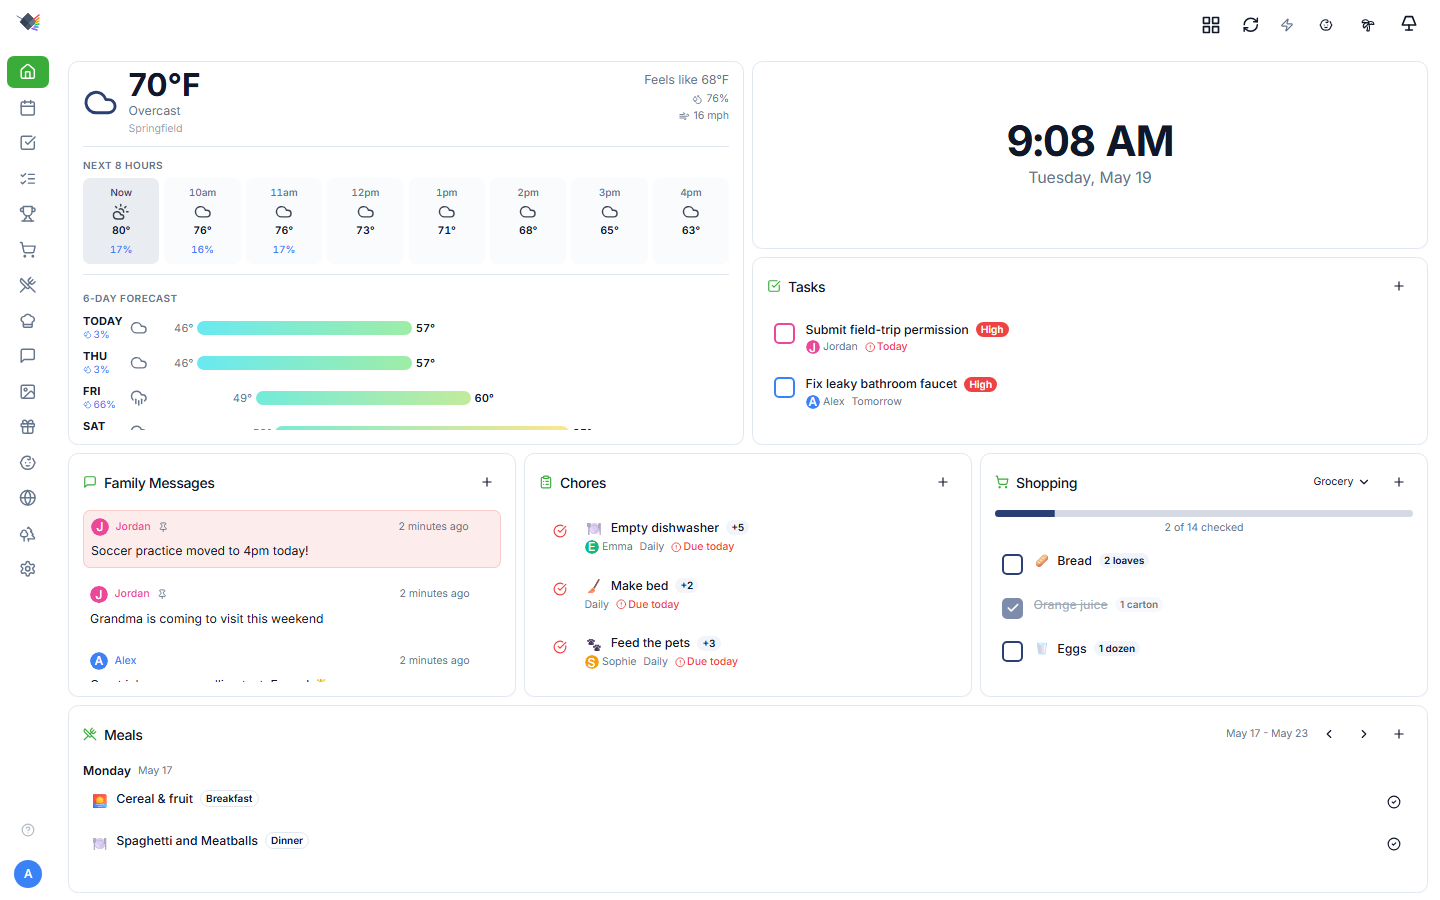
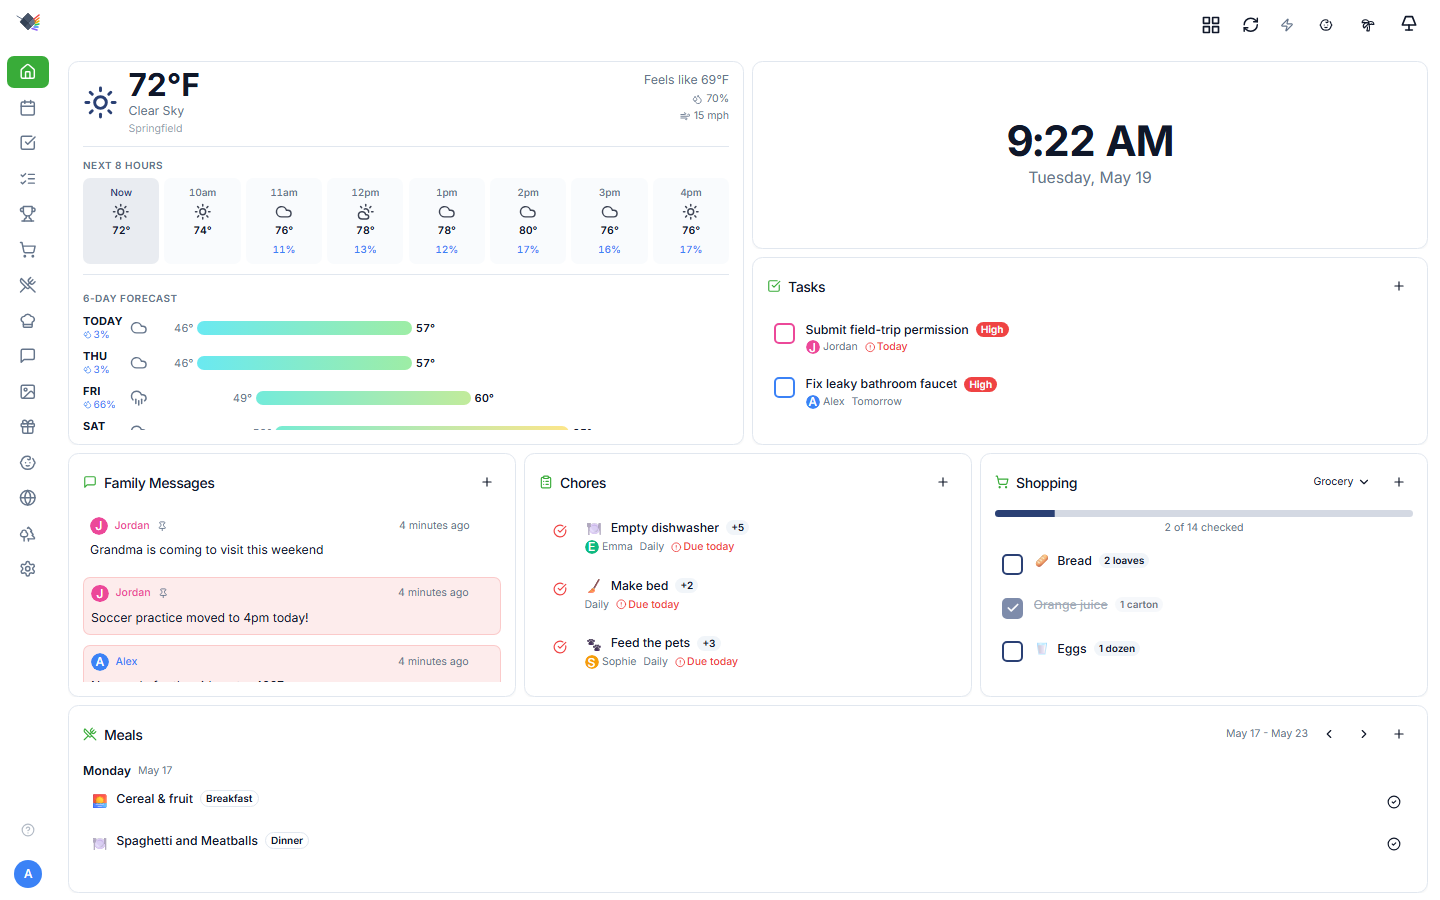
fix(weather): parse Open-Meteo sunrise/sunset/hourly as wall-clock-in-location
Open-Meteo returns "2026-05-19T05:42" (no offset) when called with
`timezone=auto`, expecting the consumer to interpret that wall-clock in
the response's IANA timezone. The previous parser ran `new Date(s)`,
which treats the string as the *runtime's* local time — UTC in our
Docker containers — then serializes through JSON as ISO Z. The browser
re-interprets that as UTC and shifts by its own offset, so sunrise
landed around midnight CDT instead of ~5:30 AM.

Fix: combine the wall-clock string with the response's `timezone` field
via Intl.DateTimeFormat → longOffset to compute the correct UTC instant.
Applied to sunrise, sunset, and `hourly.time`. DST transitions handled
implicitly since the offset is recomputed against each date.

- Add `zonedTimeToUtc(localIso, timeZone)` helper in openmeteo.ts.
- Two new regression tests: sunrise/sunset round-trip and hourly-time
  round-trip — both assert the result expressed in America/Chicago
  matches the original wall-clock string.
- Re-capture dashboard PNGs with correct sunrise/sunset data.
- Also: stage the merry-timeline.d.ts deletion that should have landed
  in the previous weather commit.

diff --git a/src/lib/integrations/openmeteo.ts b/src/lib/integrations/openmeteo.ts
@@ -130,6 +130,41 @@ function describeWmo(code: number): string {
 }
 
 // ---------------------------------------------------------------------------
+// Wall-clock-in-timezone → UTC instant
+// ---------------------------------------------------------------------------
+
+/**
+ * Convert a "wall-clock" ISO string ("2026-05-19T05:42", no offset) interpreted
+ * in the given IANA timezone into a UTC `Date`. Open-Meteo returns its
+ * `sunrise`, `sunset`, and `hourly.time` values in this shape when called with
+ * `timezone=auto`, so we need this to land on the correct absolute instant
+ * regardless of the runtime's local timezone (which is UTC in our containers).
+ *
+ * Approach: format the localIso (treated as UTC) in the target zone to read
+ * back its longOffset like "GMT-05:00", then subtract that offset from the
+ * UTC interpretation. DST transitions are handled implicitly because the
+ * offset is recomputed against the actual date.
+ */
+function zonedTimeToUtc(localIso: string, timeZone: string): Date {
+  // Treat the wall-clock as UTC for the moment — wrong by the timezone offset.
+  const asUtc = new Date(`${localIso}Z`);
+  // Ask Intl what UTC offset the target zone has at that moment.
+  const parts = new Intl.DateTimeFormat('en-US', {
+    timeZone,
+    timeZoneName: 'longOffset',
+    hour12: false,
+  }).formatToParts(asUtc);
+  const offsetName = parts.find((p) => p.type === 'timeZoneName')?.value ?? 'GMT';
+  // "GMT-05:00" → ±HH:MM
+  const m = /([+-])(\d{2}):?(\d{2})/.exec(offsetName);
+  if (!m) return asUtc;
+  const sign = m[1] === '+' ? 1 : -1;
+  const offsetMinutes = sign * (parseInt(m[2]!, 10) * 60 + parseInt(m[3]!, 10));
+  // Subtract the offset to get the real UTC instant for that wall-clock time.
+  return new Date(asUtc.getTime() - offsetMinutes * 60_000);
+}
+
+// ---------------------------------------------------------------------------
 // Main fetch function
 // ---------------------------------------------------------------------------
 
@@ -201,11 +236,15 @@ export async function fetchWeatherData(location?: LocationParam): Promise<Weathe
   };
 
   // ── Sunrise / sunset from today's daily entry ─────────────────────────────
-  // Open-Meteo returns ISO strings without TZ suffix when timezone=auto;
-  // appending the offset is unnecessary because `new Date(<ISO without Z>)`
-  // is interpreted as local time, which matches the requested location.
-  const sunrise = daily.sunrise[0] ? new Date(daily.sunrise[0]) : undefined;
-  const sunset  = daily.sunset[0]  ? new Date(daily.sunset[0])  : undefined;
+  // Open-Meteo returns ISO strings without TZ offset when timezone=auto
+  // (e.g. "2026-05-19T05:42"). Plain `new Date(s)` interprets these in the
+  // *runtime's* local time — which is UTC in our Docker container — then
+  // serializes to ISO Z. The browser then parses that back as UTC and shifts
+  // by the user's offset, producing sunrise ~midnight. Combining the wall-
+  // clock string with the response's IANA timezone gives the correct UTC
+  // instant in one step.
+  const sunrise = daily.sunrise[0] ? zonedTimeToUtc(daily.sunrise[0], timezone) : undefined;
+  const sunset  = daily.sunset[0]  ? zonedTimeToUtc(daily.sunset[0],  timezone) : undefined;
 
   // ── 7-day forecast ────────────────────────────────────────────────────────
   // Today's local date at the forecast location — used to drop stale past-day
@@ -242,7 +281,9 @@ export async function fetchWeatherData(location?: LocationParam): Promise<Weathe
   const cutoff = nowMs + 12 * 3_600_000;
   const hourlyData: HourlyForecast[] = hourly.time
     .map((t, i) => ({
-      time: new Date(t),
+      // Same wall-clock-in-location issue as sunrise above — pass through
+      // zonedTimeToUtc so the absolute instant is right for the user's browser.
+      time: zonedTimeToUtc(t, timezone),
       condition: mapWmoCode(hourly.weather_code[i] ?? 0),
       temp: Math.round(hourly.temperature_2m[i] ?? 0),
       precipProbability: Math.round(hourly.precipitation_probability?.[i] ?? 0),

diff --git a/src/lib/integrations/__tests__/openmeteo.test.ts b/src/lib/integrations/__tests__/openmeteo.test.ts
@@ -237,6 +237,80 @@ describe('openmeteo.fetchWeatherData', () => {
     expect(result.forecast[0]?.condition).not.toBe('cloudy');
   });
 
+  it('parses sunrise/sunset as wall-clock-in-location, not wall-clock-in-runtime', async () => {
+    // Regression: Open-Meteo returns "2026-05-19T05:42" (no offset) for a
+    // location in America/Chicago. The bug was that `new Date(s)` interpreted
+    // this as the runtime's local time — UTC in our Docker containers — so the
+    // serialized ISO instant was 5 hours off, displaying sunrise around
+    // midnight in the browser. Verify the parser uses the response's timezone
+    // to land on the correct UTC instant.
+    const today = localDate(0, 'America/Chicago');
+    const response = buildResponse('America/Chicago');
+    response.daily.sunrise = [`${today}T05:42`];
+    response.daily.sunset = [`${today}T20:07`];
+
+    jest.spyOn(global, 'fetch' as never).mockResolvedValue({
+      ok: true,
+      json: async () => response,
+    } as never);
+
+    const { fetchWeatherData } = await import('../openmeteo');
+    const result = await fetchWeatherData();
+
+    // 05:42 CDT = 10:42 UTC (or 05:42 CST = 11:42 UTC in winter). Display in
+    // the location's TZ to make the assertion robust to test-runner TZ AND
+    // DST transitions — what we care about is "05:42 in Chicago".
+    const sunriseInChicago = new Intl.DateTimeFormat('en-US', {
+      timeZone: 'America/Chicago',
+      hour: '2-digit',
+      minute: '2-digit',
+      hour12: false,
+    }).format(result.sunrise);
+    expect(sunriseInChicago).toBe('05:42');
+
+    const sunsetInChicago = new Intl.DateTimeFormat('en-US', {
+      timeZone: 'America/Chicago',
+      hour: '2-digit',
+      minute: '2-digit',
+      hour12: false,
+    }).format(result.sunset!);
+    expect(sunsetInChicago).toBe('20:07');
+  });
+
+  it('parses hourly times as wall-clock-in-location', async () => {
+    // Same regression as the sunrise test, applied to the hourly forecast.
+    const today = localDate(0, 'America/Chicago');
+    const response = buildResponse('America/Chicago');
+    response.hourly.time = [`${today}T09:00`, `${today}T10:00`, `${today}T11:00`];
+    response.hourly.temperature_2m = [70, 71, 72];
+    response.hourly.precipitation_probability = [0, 0, 0];
+    response.hourly.precipitation = [0, 0, 0];
+    response.hourly.weather_code = [0, 0, 0];
+
+    jest.spyOn(global, 'fetch' as never).mockResolvedValue({
+      ok: true,
+      json: async () => response,
+    } as never);
+
+    const { fetchWeatherData } = await import('../openmeteo');
+    const result = await fetchWeatherData();
+
+    // Hourly is filtered to a 12-hour window around `now`, so at least one of
+    // the three fixture hours should survive. Whichever does, its wall-clock
+    // in America/Chicago must read back as one of "09:00" / "10:00" / "11:00".
+    expect(result.hourly && result.hourly.length).toBeGreaterThan(0);
+    if (result.hourly && result.hourly.length > 0) {
+      const formatter = new Intl.DateTimeFormat('en-US', {
+        timeZone: 'America/Chicago',
+        hour: '2-digit',
+        minute: '2-digit',
+        hour12: false,
+      });
+      const wallClocks = result.hourly.map((h) => formatter.format(h.time));
+      expect(wallClocks.every((wc) => ['09:00', '10:00', '11:00'].includes(wc))).toBe(true);
+    }
+  });
+
   it('does not require any API key (zero env-var configuration)', async () => {
     // Strip any provider key env vars to prove openmeteo doesn't read them.
     const stripped = { ...process.env };
